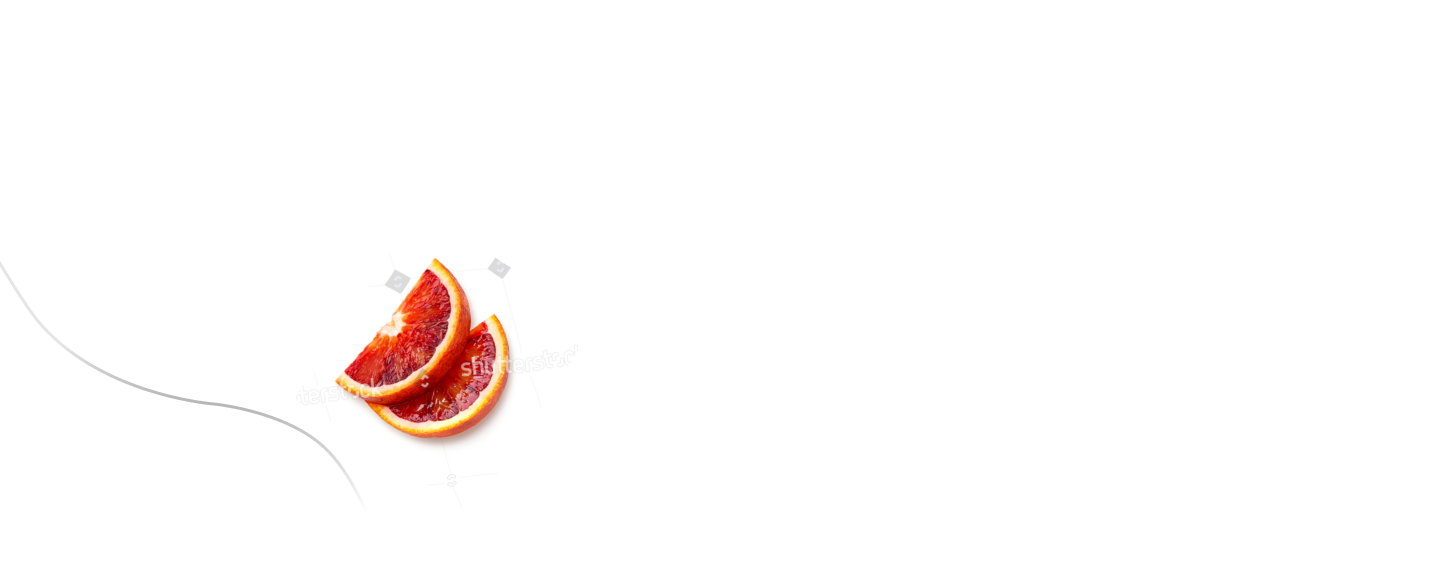
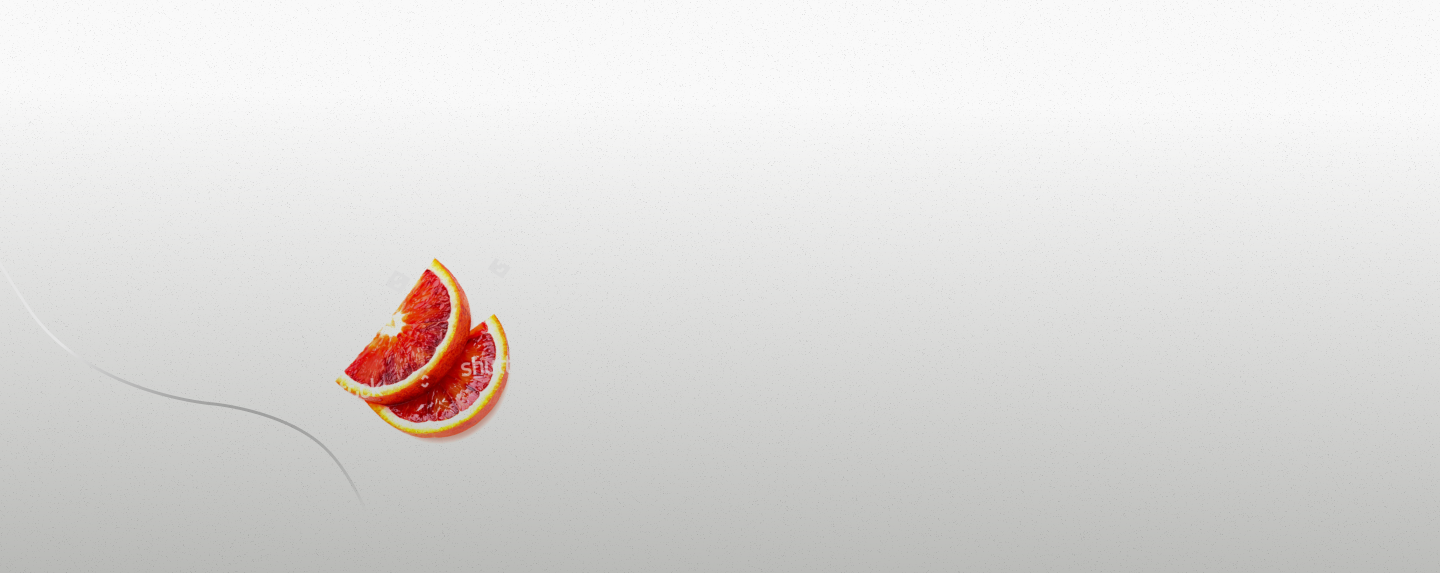
added 'About zinc'

diff --git a/app/index.html b/app/index.html
@@ -112,9 +112,46 @@
               />
             </div>
           </div>
+          <img
+            class="promo__decore-img"
+            src="images/main_baner/orange-slice.png"
+            alt="decore"
+          />
         </div>
       </section>
       <!-- Promo /end -->
+      <!-- About zinc -->
+      <section
+        class="about-zinc"
+        style="background-image: url(images/about_zinc/about_zinc_bg.png)"
+      >
+        <div class="container">
+          <div class="about-zinc__inner">
+            <div class="about-zinc__item">
+              <h2 class="about-zinc__title">Навіщо потрібен цинк?</h2>
+            </div>
+            <div class="about-zinc__item">
+              <p class="about-zinc__text">
+                <b class="about-zinc--bold">Цинк</b> впливає на здоровий стан
+                шкіри - сприяє швидкому загоєнню ран, регулює роботу сальних
+                залоз, зменшує прояви запалення шкіри, покращує травлення,
+                стимулює вироблення гормонів, впливає на синтез
+                колагену<sup>³</sup>. <b class="about-zinc--bold">Цинк</b> -
+                потрібен для росту та відновлення м’язів, активізує захисні
+                властивості організму, зміцнює нервову систему, цинк утворює
+                захисну плівку від вірусів і бактерій на слизовій оболонці
+                порожнини роту<sup>³</sup>.
+              </p>
+              <p class="about-zinc__text">
+                За даними Всесвітньої організації охорони здоров’я, понад 2
+                міліардів людей на планеті страждають від постійної нестачі
+                цинку<sup>³</sup>.
+              </p>
+            </div>
+          </div>
+        </div>
+      </section>
+      <!-- About zinc /end -->
     </main>
     <!----- Main /end ----->
 

diff --git a/app/scss/style.scss b/app/scss/style.scss
@@ -83,7 +83,7 @@
     top: 20px;
     left: 0;
     display: none;
-    padding: 7px 5px;
+    padding: 7px 8px;
     color: $color-white;
     border-bottom-right-radius: 5px;
     border-bottom-left-radius: 5px;
@@ -116,10 +116,10 @@
 
 // Promo
 .promo {
-  height: 100vh;
   background-repeat: no-repeat;
   background-position: top center;
   background-size: cover;
+  padding-bottom: 70px;
 
   &__inner {
     display: flex;
@@ -194,8 +194,56 @@
     border-left: 3px solid $color-dark-ruby;
     background: linear-gradient(0deg, #c4c4c4 0%, #ffffff 100%);
   }
+
+  &__decore-img {
+    position: absolute;
+    left: 0;
+    right: 0;
+    margin: 0 auto;
+  }
 }
 
 // Promo /end
+
+// About zinc
+
+.about-zinc {
+  background-position: left top;
+  background-size: cover;
+  background-repeat: no-repeat;
+
+  &__inner {
+    padding: 250px 0;
+    display: flex;
+    justify-content: space-between;
+  }
+
+  &__item {
+    max-width: 500px;
+  }
+
+  &__title {
+    @include impact-400;
+    font-size: 36px;
+    line-height: 44px;
+    color: $color-ruby;
+    width: 280px;
+    margin-left: 10px;
+  }
+
+  &__text {
+    @include montserrat-400;
+    font-size: 16px;
+    line-height: 22px;
+  }
+
+  &--bold {
+    color: $color-ruby;
+    @include montserrat-700;
+  }
+}
+
+// About zinc /end
+
 // --------------------- Адаптив сайту ------------------
 @import "media";
